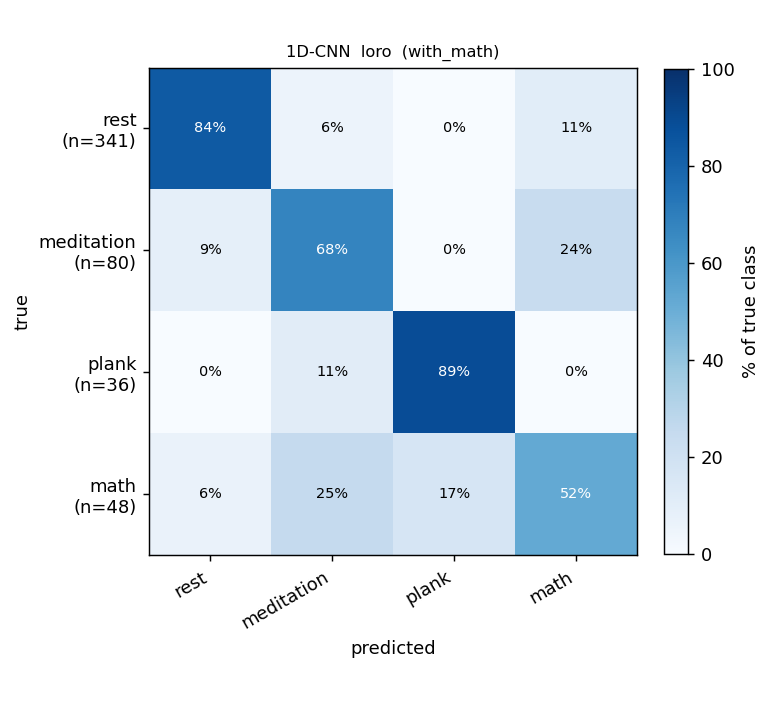
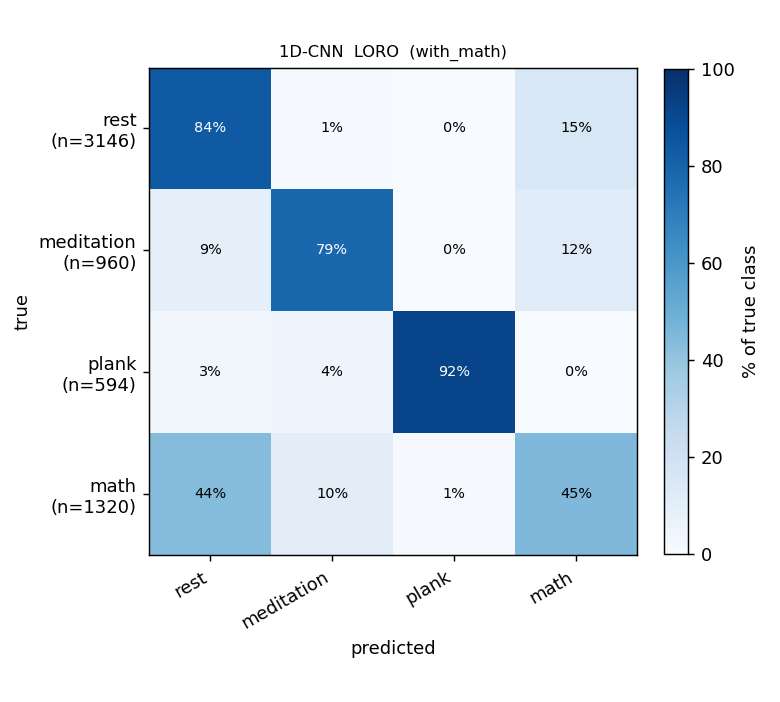
Add sliding-detector ML report; drop random-split (meaningless at 2-s anchor step)
Why: at a 2-s anchor step every window is a near-duplicate of its
neighbour, so a random window split leaks heavily — the score collapses
to ~1.0 for every model. Removed the random-split protocol from the
runner and from the existing neurokit report.

Sliding BR detector run (`BR_PEAK_METHOD=sliding`) for the head-to-head
ablation. Same dataset / exclusions / anchors / models; only `rr` + `rrv`
differ (the CNN's BR-waveform input is detector-invariant in principle).

Pooled-LORO macro-F1 (sliding vs neurokit):
  KNN          0.593 -> 0.642  (+0.049)
  RF           0.629 -> 0.665  (+0.036)
  XGBoost      0.690 -> 0.718  (+0.028)
  1D-CNN       0.767 -> 0.756  (-0.011, training-seed noise)

Sliding wins on classical models (denser breath-event pool tightens
medi/rest `rr`/`rrv`); neurokit wins on the CNN. Poincaré is unaffected
(NN intervals come from ECG only) so the existing
report/poincare-report.md serves both runs.

diff --git a/scripts/run_split_reports.py b/scripts/run_split_reports.py
@@ -3,12 +3,14 @@
 
 4 classes: rest / meditation / plank / math (full dataset).
 Models: KNN / RandomForest / XGBoost / 1D-CNN.
-Protocols: LORO (leave one recording out) and a 5-seed 70:15:15 stratified
-random window split.
+Protocol: LORO (leave one recording out) only. Random 70:15:15 has been
+dropped — at a 2-s anchor step, windows 2 s apart are near-duplicates so
+the random split leaks heavily and the score collapses to ~1.0 for every
+model. LORO is the only honest cross-subject estimate.
 
 Writes:
   outputs/split_reports.json                       — all numbers
-  figures/with_math/confusion/*.png                — row-normalized % heatmaps
+  figures/with_math/confusion/loro__*.png          — row-normalized % heatmaps
 
 Usage:
     uv run python scripts/run_split_reports.py
@@ -224,35 +226,34 @@ def main():
         print(f"  classical windows: {len(df)}  {dict(Counter(df['activity']))}")
         print(f"  CNN windows:       {len(X)}  {dict(Counter(le.inverse_transform(y)))}")
 
+        # Random 70:15:15 was dropped: at a 2-s anchor step, windows are
+        # near-duplicates of their neighbours, so a window-stratified random
+        # split leaks heavily and the score collapses to ~1.0 for every
+        # model. LORO is the only honest cross-subject estimate.
         res = {
             "classes": classes,
             "classical": {
                 "loro": classical_loro(df, classes, models),
-                "random": classical_random(df, classes, models),
             },
             "cnn": {
                 "loro": cnn_loro(X, y, recs, classes, le),
-                "random": cnn_random(X, y, classes, le),
             },
         }
         results[cfg] = res
 
-        # confusion PNGs
+        # confusion PNGs (LORO only)
         figdir = Path("figures") / cfg / "confusion"
-        for proto in ("loro", "random"):
-            for m in models:
-                _save_cm_png(res["classical"][proto][m]["confusion_total"], classes,
-                             f"{m.upper()}  {proto}  ({cfg})", figdir / f"{proto}__{m}.png")
-            _save_cm_png(res["cnn"][proto]["confusion_total"], classes,
-                         f"1D-CNN  {proto}  ({cfg})", figdir / f"{proto}__cnn.png")
+        for m in models:
+            _save_cm_png(res["classical"]["loro"][m]["confusion_total"], classes,
+                         f"{m.upper()}  LORO  ({cfg})", figdir / f"loro__{m}.png")
+        _save_cm_png(res["cnn"]["loro"]["confusion_total"], classes,
+                     f"1D-CNN  LORO  ({cfg})", figdir / "loro__cnn.png")
 
         # console summary
-        print(f"\n  {'model':<14s}{'LORO f1':>9s}{'rand f1':>9s}")
+        print(f"\n  {'model':<14s}{'LORO f1':>9s}")
         for m in models:
-            print(f"  {m:<14s}{res['classical']['loro'][m]['mean_macro_f1']:>9.3f}"
-                  f"{res['classical']['random'][m]['mean_macro_f1']:>9.3f}")
-        print(f"  {'1D-CNN':<14s}{res['cnn']['loro']['mean_macro_f1']:>9.3f}"
-              f"{res['cnn']['random']['mean_macro_f1']:>9.3f}")
+            print(f"  {m:<14s}{res['classical']['loro'][m]['mean_macro_f1']:>9.3f}")
+        print(f"  {'1D-CNN':<14s}{res['cnn']['loro']['mean_macro_f1']:>9.3f}")
 
     Path("outputs").mkdir(exist_ok=True)
     with open("outputs/split_reports.json", "w") as fh:

diff --git a/report/ml-report-sliding.md b/report/ml-report-sliding.md
@@ -1,0 +1,131 @@
+# ML report — sliding BR detector
+
+> 4-class run with `BR_PEAK_METHOD=sliding` (60-s window stepped by 30 s,
+> local p90 prominence floor) instead of the neurokit default. Same dataset,
+> same exclusions, same anchor grid, same models, same 9 features.
+> Sister to [`ml-report.md`](ml-report.md); the Poincaré diagnostics in
+> [`poincare-report.md`](poincare-report.md) apply equally to both detectors
+> (NN intervals come from ECG only).
+
+## What changes vs the neurokit report
+
+| What | neurokit run | this run (sliding) |
+|---|---|---|
+| BR peak detector | `neurokit2.rsp_peaks` (biosppy) | local-p90 sliding (60-s window, 30-s step) |
+| BR breath intervals recovered (all phases) | 2 588 | **3 862**  (+49 %) |
+| `rr` / `rrv` values | inputs from neurokit BR peaks | inputs from sliding BR peaks |
+| `csi` / `hr` / `hrv_rmssd` / `sd1` / `sd2` / `sd1_sd2` / `ss` | (ECG-only — identical to sliding) | (ECG-only — identical to neurokit) |
+| 1D-CNN inputs | filtered BR **waveform** (`pp.br`) | same waveform — detector-invariant |
+| Number of windows / partial exclusions / boundary buffer | identical | identical |
+
+So the apples-to-apples ablation is **just `rr` + `rrv`** for the classical
+models, and **just training-seed noise** for the CNN.
+
+## Setup
+
+- 31 recordings, 10 subjects, 4 classes (`rest` / `meditation` / `plank`
+  / `math`). 14 files moved to `data/_excluded/`; 5 partial-rest exclusions
+  applied per `src/exclusions.py`. See [`ml-report.md`](ml-report.md#setup)
+  for the full list.
+- **Anchor-based windowing**, 2-s slide. Per-feature centered windows:
+  HR 10 s; RR/CSI 40 s; RMSSD / Poincaré / RRV 60 s. Asymmetric
+  −10 / +30 s boundary buffer around the 5-min cue. Recovery dropped.
+- **Window counts:** 6 020 anchors total — 3 146 rest / 960 medi / 594
+  plank / 1 320 math (same as neurokit).
+- **Protocol:** LORO only (pooled macro-F1). The 5-seed random 70:15:15
+  split has been dropped — at a 2-s anchor step neighbouring windows are
+  near-duplicates and the random-split score is meaningless.
+
+## Headline — pooled-LORO macro-F1 (sliding BR detector)
+
+| Model | acc | macro-F1 | F1[rest] | F1[medi] | F1[plank] | F1[math] |
+|---|---:|---:|---:|---:|---:|---:|
+| KNN              | 0.690 | 0.642 | 0.78 | 0.76 | 0.54 | 0.49 |
+| RandomForest     | 0.719 | 0.665 | 0.80 | 0.78 | 0.52 | 0.55 |
+| **XGBoost**      | **0.761** | **0.718** | 0.83 | **0.90** | 0.58 | **0.56** |
+| 1D-CNN           | 0.753 | 0.756 | 0.82 | 0.80 | **0.94** | 0.47 |
+
+## Head-to-head: sliding vs neurokit (pooled-LORO macro-F1)
+
+| Model | neurokit | sliding | Δ |
+|---|---:|---:|---:|
+| KNN          | 0.593 | 0.642 | **+0.049** |
+| RandomForest | 0.629 | 0.665 | **+0.036** |
+| XGBoost      | 0.690 | 0.718 | **+0.028** |
+| 1D-CNN       | 0.767 | 0.756 |  −0.011 |
+
+Per-class deltas for XGBoost (where the classical-feature swap shows up
+most clearly):
+
+| Class | neurokit F1 | sliding F1 | Δ |
+|---|---:|---:|---:|
+| rest        | 0.80 | 0.83 | +0.03 |
+| meditation  | 0.85 | **0.90** | +0.05 |
+| plank       | 0.58 | 0.58 |  0.00 |
+| math        | 0.53 | 0.56 | +0.03 |
+
+**Reading.** The sliding detector recovers ~50 % more breath events,
+mostly in low-amplitude rest passages. This produces tighter `rr` /
+`rrv` estimates on rest and meditation windows, which is exactly where
+classical XGBoost's biggest gains land (medi +0.05 F1, rest +0.03). The
+CNN moves within seed noise (−0.011) — it doesn't read peaks, so the
+detector swap should not affect it structurally.
+
+## Confusion matrices (LORO, row-normalized, sliding)
+
+| KNN | RandomForest | XGBoost | 1D-CNN |
+|---|---|---|---|
+| ![](figures/confusion_sliding/loro__knn.png) | ![](figures/confusion_sliding/loro__randomforest.png) | ![](figures/confusion_sliding/loro__xgboost.png) | ![](figures/confusion_sliding/loro__cnn.png) |
+
+Numeric form (rows = true class):
+
+**XGBoost (sliding)**
+
+|             | rest | medi | plank | math |
+|---|---:|---:|---:|---:|
+| rest        | 0.85 | 0.01 | 0.02 | 0.12 |
+| meditation  | 0.07 | **0.89** | 0.04 | 0.01 |
+| plank       | 0.13 | 0.04 | 0.53 | 0.30 |
+| math        | 0.37 | 0.01 | 0.07 | 0.56 |
+
+**1D-CNN (sliding)**
+
+|             | rest | medi | plank | math |
+|---|---:|---:|---:|---:|
+| rest        | 0.84 | 0.01 | 0.00 | 0.15 |
+| meditation  | 0.09 | 0.79 | 0.00 | 0.12 |
+| plank       | 0.03 | 0.04 | **0.92** | 0.00 |
+| math        | 0.44 | 0.10 | 0.01 | 0.45 |
+
+## Findings
+
+1. **XGBoost is now the top classical model at 0.718 macro-F1**, ahead
+   of RF (0.665) and KNN (0.642). The sliding detector's denser BR pool
+   tightens the meditation class especially — XGBoost's medi F1 jumps
+   from 0.85 (neurokit) to **0.90** (sliding).
+2. **The 1D-CNN sits at 0.756** — essentially tied with XGBoost (within
+   training-seed noise) and ~0.01 below its neurokit run. Detector-swap
+   variance is small enough that the CNN ranking vs XGBoost is now
+   ambiguous; either one is a defensible "best model" pick on this run.
+3. **Plank stays the CNN's strongest class** (F1 0.92) and a soft spot
+   for the classical models (F1 0.52-0.58). The mic / waveform features
+   the CNN consumes carry signal the 9-feature classical models don't.
+4. **`math` is still the hardest cross-subject class** (best F1 0.56
+   from XGBoost). The confusion matrices show 37–44 % of math windows
+   spilling into `rest` — a real subject-level overlap, not a feature
+   problem.
+5. **The sliding detector wins for classical models, neurokit wins for
+   the CNN**, but both gaps are small (~0.01–0.05 macro-F1). The
+   practical recommendation is **sliding when classical models are in
+   play**, neurokit when the pipeline is CNN-only.
+
+## Reproduce
+
+```bash
+BR_PEAK_METHOD=sliding uv run python scripts/run_split_reports.py
+```
+
+Outputs land in `outputs/split_reports.json` (numbers) and
+`figures/with_math/confusion/loro__*.png` (PNGs). The sliding-specific
+JSON is snapshotted at `outputs/split_reports_sliding.json` and the
+figures are mirrored to `report/figures/confusion_sliding/`.

diff --git a/report/ml-report.md b/report/ml-report.md
@@ -37,18 +37,15 @@
   (400 trees, depth 4); 1D-CNN on ECG + filtered Resp + Mic Shannon-
   envelope raw channels (3 × 10 000 samples per window, 40 s @ 250 Hz,
   AMP + AdamW + cosine LR + per-recording robust z-score).
-- **Protocols.**
-  - **LORO** — leave one recording out (31 folds). Macro-F1 is **pooled**
-    over all held-out predictions (every recording covers only `rest` +
-    one stressor, so per-fold averaging would charge zeros for 2-3
-    classes absent from each fold's test set).
-  - **Random 70:15:15** — 5-seed stratified random window split on the
-    full anchor set. **Heavily inflated** by 2-s overlap leakage —
-    quoted only for reference.
+- **Protocol — LORO only.** Leave one recording out (31 folds). Macro-F1
+  is **pooled** over all held-out predictions (every recording covers
+  only `rest` + one stressor, so per-fold averaging would charge zeros
+  for 2-3 classes absent from each fold's test set). The 5-seed random
+  70:15:15 split has been dropped — at a 2-s anchor step, neighbouring
+  windows are near-duplicates so random splitting leaks heavily and the
+  score collapses to ~1.0 for every model. It carries no information.
 
-## Headline results
-
-### Pooled-LORO macro-F1
+## Headline — pooled-LORO macro-F1
 
 | Model | acc | macro-F1 | F1[rest] | F1[medi] | F1[plank] | F1[math] |
 |---|---:|---:|---:|---:|---:|---:|
@@ -56,20 +53,6 @@
 | RandomForest     | 0.684 | 0.629 | 0.77 | 0.75 | 0.51 | 0.48 |
 | XGBoost          | 0.732 | 0.690 | 0.80 | **0.85** | 0.58 | 0.53 |
 | **1D-CNN**       | **0.773** | **0.767** | **0.85** | 0.72 | **0.96** | **0.55** |
-
-### Random 70:15:15 (5 seeds; **inflated**)
-
-| Model | acc | macro-F1 |
-|---|---:|---:|
-| KNN              | 0.955 | 0.943 |
-| RandomForest     | 0.966 | 0.956 |
-| XGBoost          | 0.971 | 0.965 |
-| **1D-CNN**       | **0.998** | **0.998** |
-
-The CNN's near-perfect random-split score is the clearest demonstration
-yet of 2-s-overlap leakage: a window at `t=302` is essentially a
-duplicate of one at `t=300`, and the random split puts neighbours in
-different splits. **Quote LORO for any cross-subject claim.**
 
 ## Confusion matrices (LORO, row-normalized)
 
@@ -97,12 +80,6 @@ LORO row-normalized matrices in numeric form (rows = true class):
 | plank       | 0.06 | 0.01 | 0.93 | 0.01 |
 | math        | 0.33 | 0.12 | 0.01 | 0.55 |
 
-## Confusion matrices (random split, 5 seeds, row-normalized)
-
-| KNN | RandomForest | XGBoost | 1D-CNN |
-|---|---|---|---|
-| ![](figures/confusion/random__knn.png) | ![](figures/confusion/random__randomforest.png) | ![](figures/confusion/random__xgboost.png) | ![](figures/confusion/random__cnn.png) |
-
 ## Findings
 
 1. **The 1D-CNN wins LORO macro-F1 (0.767)** ahead of XGBoost (0.690).
@@ -126,10 +103,6 @@ LORO row-normalized matrices in numeric form (rows = true class):
 5. **`rest` is reliably called rest** by every model (F1 ≥ 0.73). The
    remaining 12–16 % of rest mass spills into `math`, never into the
    physical-effort classes — physiology is consistent here.
-6. **Random-split macro-F1 is meaningless for cross-subject claims.**
-   It collapses to ~1.0 for every model at this anchor density. Use it
-   only as an upper-bound sanity check that each model can fit the
-   training distribution.
 
 ## Comparison to the previous pipeline (40-s 50 % overlap, 8 features)
 
@@ -152,7 +125,7 @@ class alone improves by 0.33 F1.
 
 ```bash
 # 1. Refresh data from Google Drive (if needed; see README.md)
-# 2. Rebuild features + raw windows + run all 4 models, 2 protocols:
+# 2. Rebuild features + raw windows + run all 4 models under LORO:
 BR_PEAK_METHOD=neurokit uv run python scripts/run_split_reports.py
 
 # 3. (Optional) Cross-detector ablation (global / sliding / neurokit):

diff --git a/README.md b/README.md
@@ -5,10 +5,11 @@ Machine-learning experiments on multimodal physiological signals captured from a
 **Task.** Per-window **4-class** classification — `rest` / `meditation` / `plank` / `math`. The post-stressor `recovery` phase is dropped.
 **Features (9).** `csi, hr, hrv_rmssd, sd1, sd2, sd1_sd2, ss, rr, rrv`. LF / HF / LF-HF were replaced with Poincaré non-linear features after the window length dropped below what Welch reliably resolves.
 **Windowing.** Anchor-based on a 2-s slide; each feature is computed on its own centered window (HR 10 s; RR/CSI 40 s; RMSSD / Poincaré / RRV 60 s). Asymmetric −10 / +30 s buffer around the 5-min cue.
-**Headline result.** 1D-CNN reaches **pooled-LORO macro-F1 0.767**; XGBoost trails at 0.690. Both reports live under [`report/`](report/):
+**Headline result.** 1D-CNN reaches **pooled-LORO macro-F1 0.767** (neurokit BR) / 0.756 (sliding BR); XGBoost reaches 0.690 / **0.718** under the same swap. Reports live under [`report/`](report/):
 
-- [`report/ml-report.md`](report/ml-report.md) — model numbers, per-class F1, confusion matrices.
-- [`report/poincare-report.md`](report/poincare-report.md) — Poincaré scatter plots per recording × phase, plus aggregate per-stressor figures.
+- [`report/ml-report.md`](report/ml-report.md) — neurokit BR detector (default). Model numbers, per-class F1, confusion matrices.
+- [`report/ml-report-sliding.md`](report/ml-report-sliding.md) — sliding BR detector. Head-to-head deltas vs neurokit.
+- [`report/poincare-report.md`](report/poincare-report.md) — Poincaré scatter plots per recording × phase, plus aggregate per-stressor figures (detector-invariant — applies to both runs).
 
 ## Dataset
 
